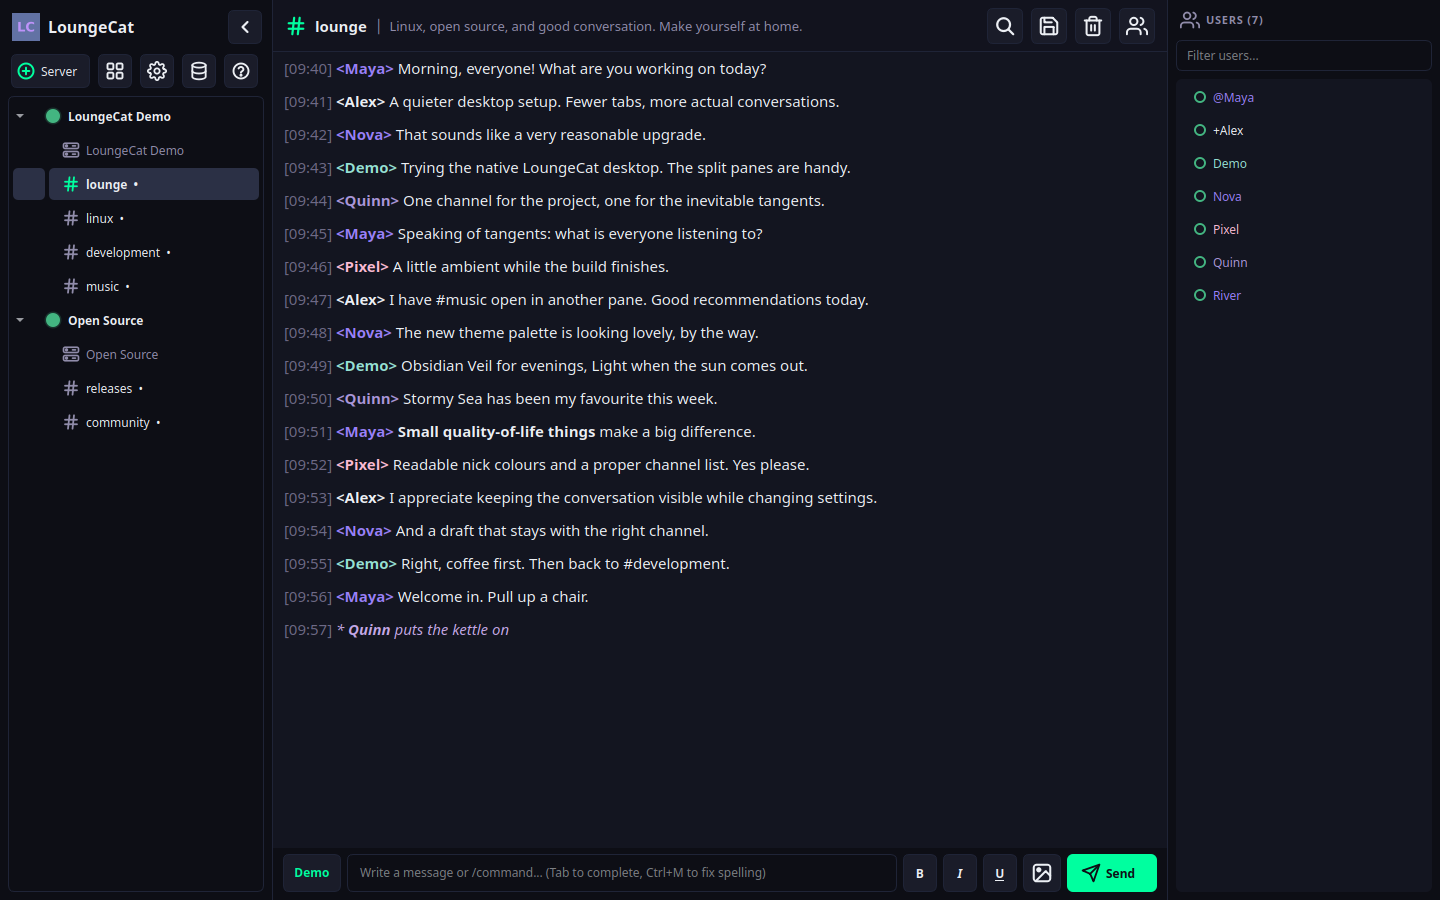
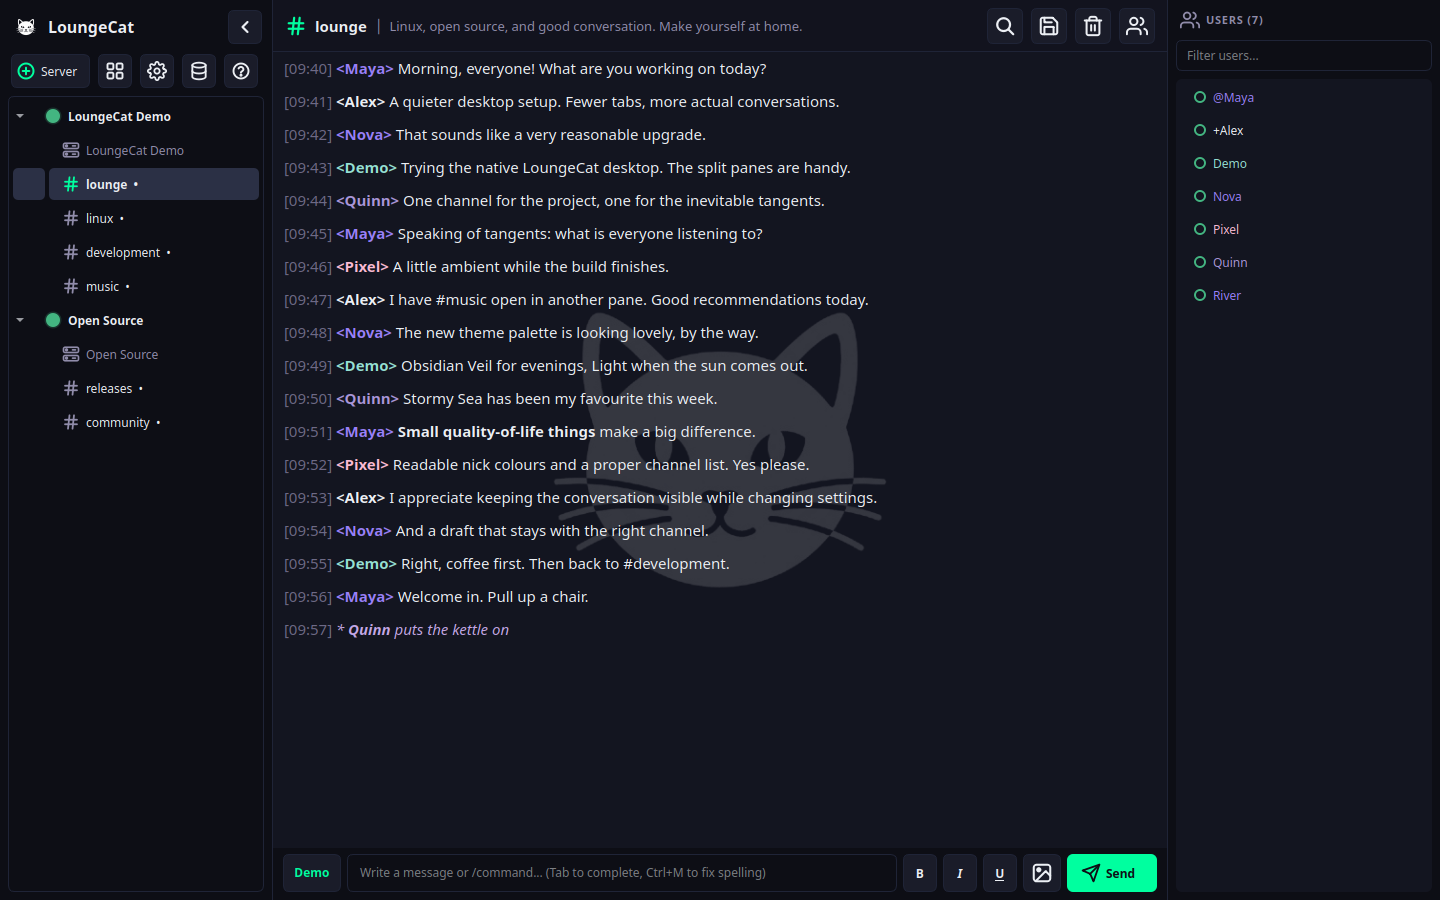
docs: refresh native gallery with restored cat branding

Changed region(s): [[0.375, 0.3422, 0.625, 0.6533], [0.0, 0.0, 0.0312, 0.0622]]

diff --git a/docs/screenshots/README.md b/docs/screenshots/README.md
@@ -2,6 +2,8 @@
 
 These images show the **actual native LoungeCat Desktop 2.0 application**, captured
 on 28 October 2026 using Qt 6.4.2. They are not generated mockups or retouched UI.
+The gallery includes the restored original cat branding and chat watermark on
+`master` (see the manifest's source revision), which postdate the v2.0.0 release.
 
 - The unchanged Linux Release executable was run with a disposable profile and a
   synthetic IRC peer inside a network namespace with only loopback enabled.
